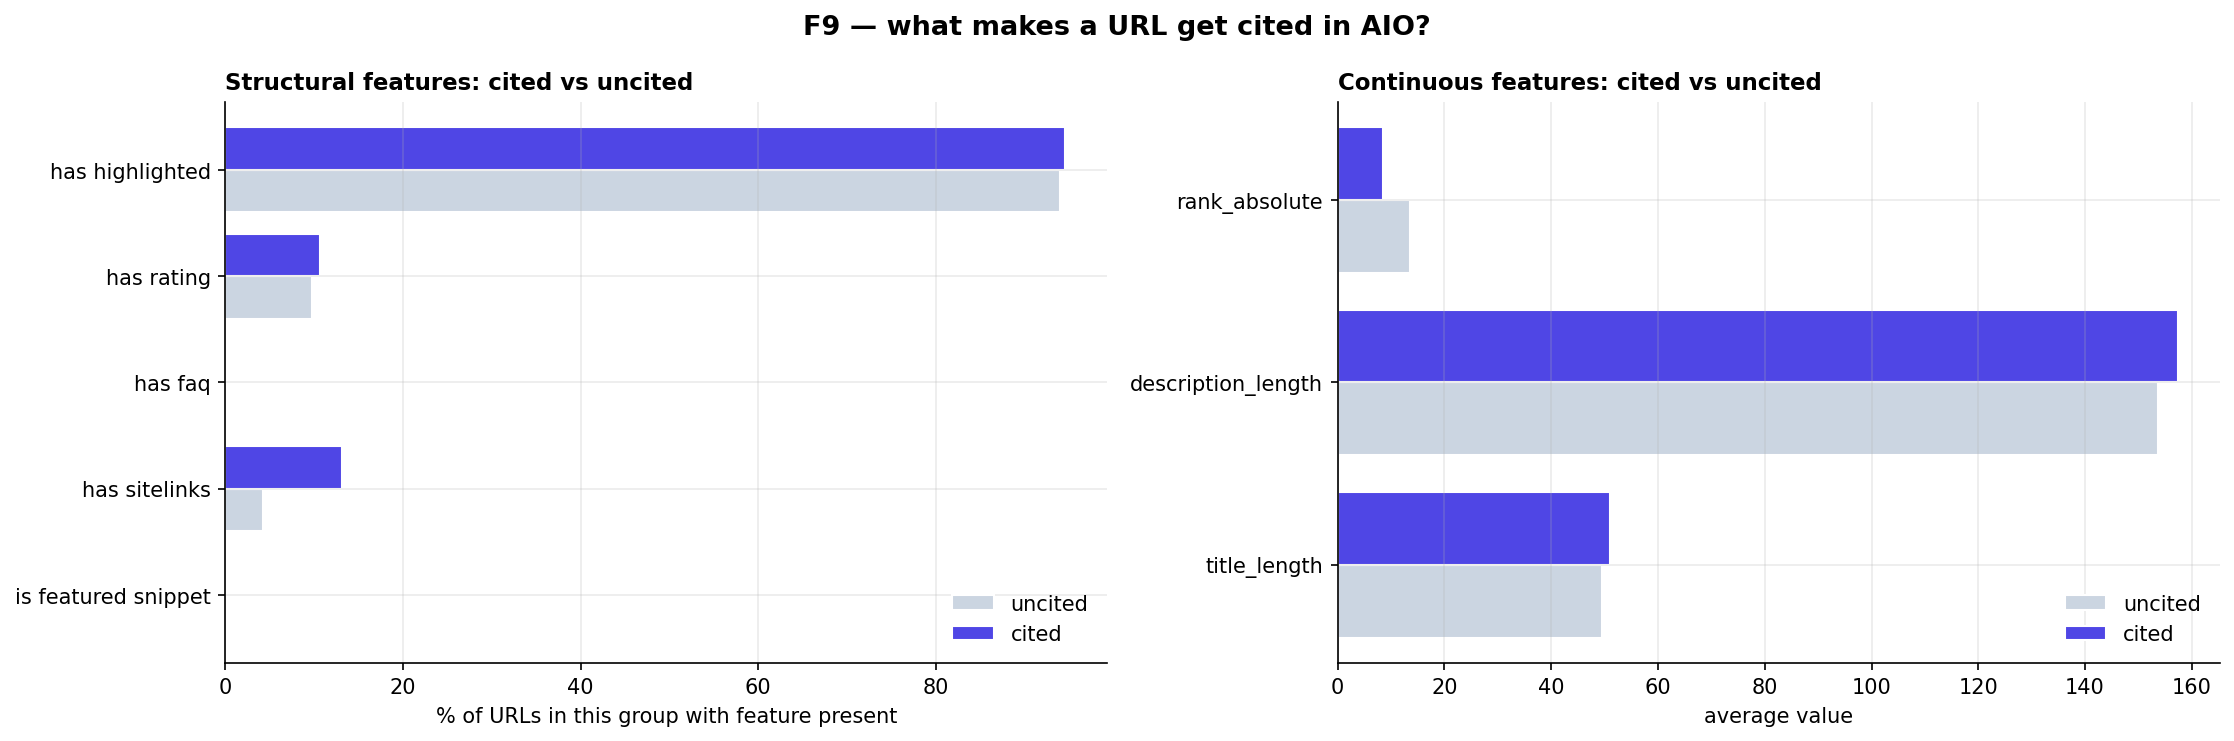
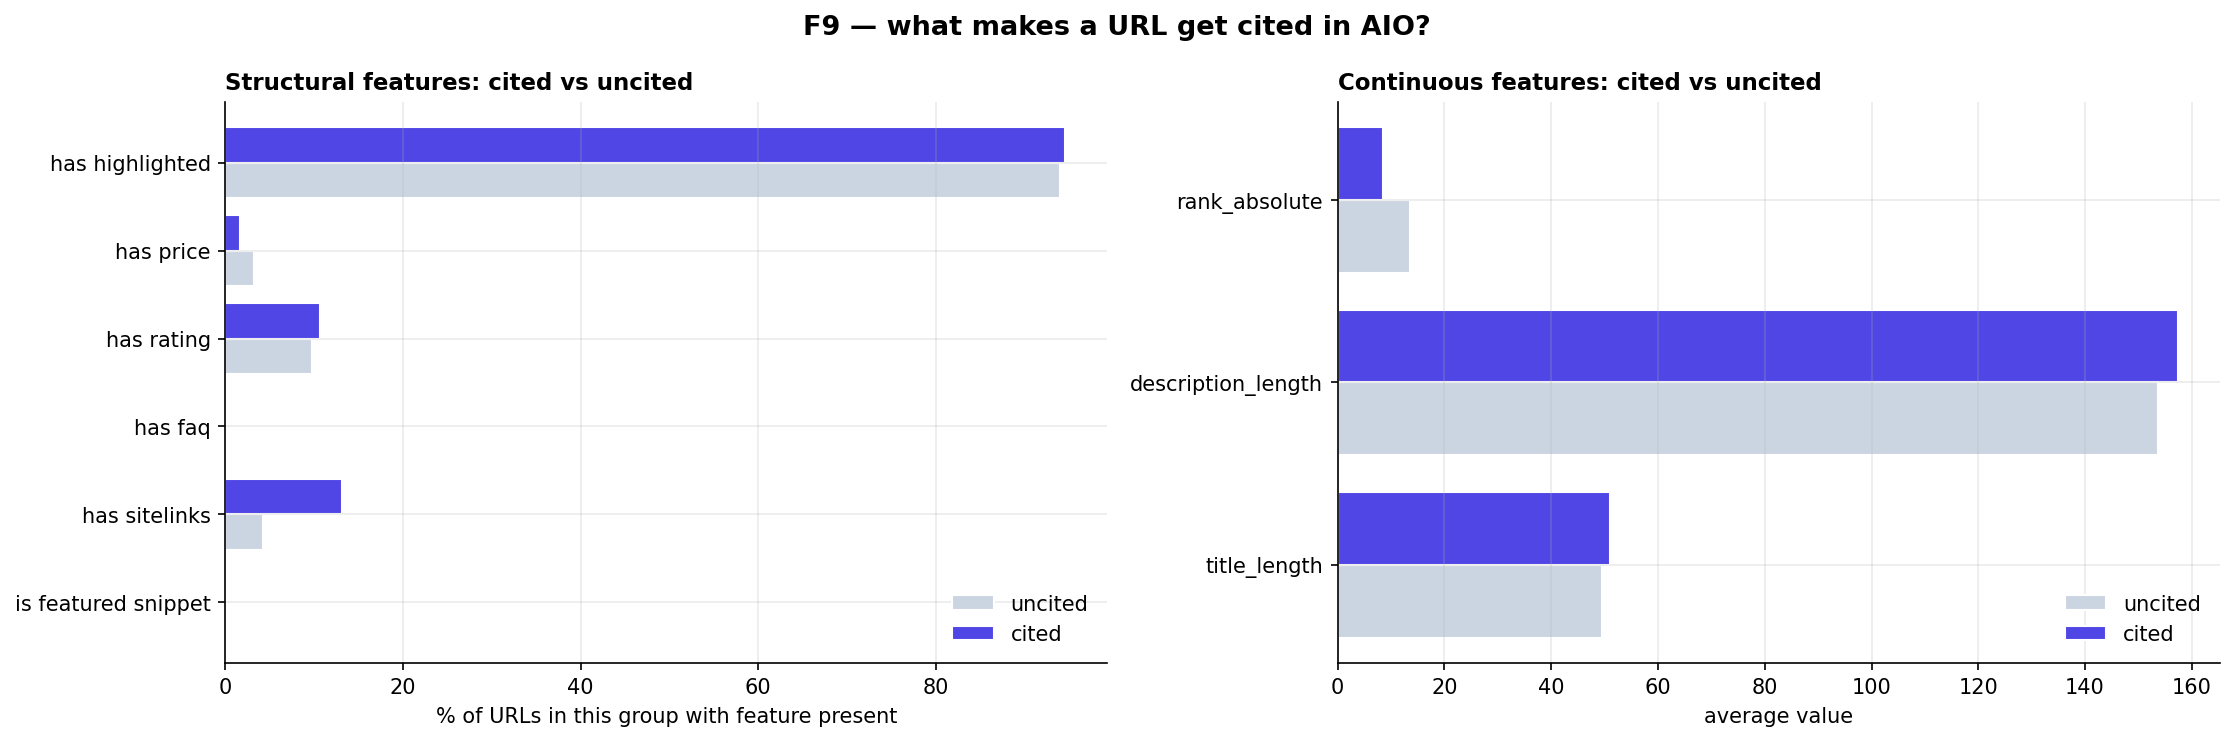
fix: has_price extraction bug + add deploy guard
Two operational fixes shipped together:

1. has_price extraction bug
   - scripts/fix_has_price.py: targeted in-place fix that pulls only
     (kr_id, url, has_price) from SEONGON for the 9,568 SERP IDs
     already in atlas.organic_features. ~180K rows pulled in 5
     minutes via lightweight 3-column query. UPDATEs atlas in bulk
     via temp table + UPDATE FROM.
   - Recomputes F9: has_price now shows -49% (cited=1.67%,
     uncited=3.27%) — the second-strongest negative signal in F9
     after rank. Pages with prices are cited LESS often, suggesting
     AIO devalues commercial-intent pages.
   - F11 SQL extended to include has_price across verticals.
   - FINDINGS.md F9 section updated with corrected table.

2. Deploy guard
   - dashboard/scripts/deploy.mjs: pre-deploy script that verifies
     railway link is on vn-aio-atlas/vn-aio-atlas-dashboard. Auto-
     relinks if wrong, refuses to deploy if relink fails. Defends
     against the cd-induced relink mishap from the v0.3 session.
   - dashboard/package.json: `npm run deploy` invokes the guard.

The has_price finding is genuinely meaningful: AIO penalizes
commercial-intent signals roughly 50%, which lines up with the AIO-
prefers-informational pattern across F2, F8, and the lifestyle/
healthcare rating-flip in F11.

diff --git a/scripts/fix_has_price.py b/scripts/fix_has_price.py
@@ -1,0 +1,168 @@
+"""Targeted fix for the has_price extraction bug.
+
+Strategy: instead of re-pulling the full organic_features set (which
+stalled twice), pull only (keyword_result_id, url, fixed_has_price)
+from SEONGON Supabase for the SERP IDs we already have in
+atlas.organic_features. Lighter query (3 cols) → less likely to stall.
+
+Then UPDATE atlas.organic_features.has_price using the corrected values.
+"""
+
+from __future__ import annotations
+
+import os
+import sys
+from pathlib import Path
+
+import polars as pl
+import psycopg
+from psycopg.rows import dict_row
+from rich.console import Console
+from tqdm import tqdm
+
+sys.path.insert(0, str(Path(__file__).resolve().parents[1] / "src"))
+
+from atlas.config import RAW_DIR, pg_conn_kwargs  # noqa: E402
+from atlas.db import atlas_conn  # noqa: E402
+
+console = Console()
+
+
+def get_kr_ids_from_atlas() -> list[int]:
+    """Get the distinct keyword_result_ids in atlas.organic_features."""
+    with atlas_conn() as conn, conn.cursor() as cur:
+        cur.execute(
+            "SELECT DISTINCT keyword_result_id FROM atlas.organic_features ORDER BY 1"
+        )
+        return [r[0] for r in cur.fetchall()]
+
+
+def pull_corrected_has_price(ids: list[int], chunk_size: int = 100) -> pl.DataFrame:
+    """Pull (kr_id, url, has_price_fixed) from SEONGON for given IDs."""
+    sql = """
+    SELECT
+        id AS keyword_result_id,
+        item->>'url' AS url,
+        (item ? 'price'
+            AND jsonb_typeof(item->'price') NOT IN ('null')
+            AND COALESCE(NULLIF(item->>'price', ''), NULL) IS NOT NULL) AS has_price
+      FROM keyword_results,
+           jsonb_array_elements(raw_api_result::jsonb -> 'items') AS item
+     WHERE has_ai_overview = 1
+       AND raw_api_result IS NOT NULL
+       AND raw_api_result NOT LIKE '%%\\u0000%%'
+       AND item->>'type' = 'organic'
+       AND id = ANY(%s)
+    """
+
+    chunks: list[pl.DataFrame] = []
+    pbar = tqdm(total=len(ids), desc="ids processed", unit="id")
+    for i in range(0, len(ids), chunk_size):
+        ids_chunk = ids[i : i + chunk_size]
+        try:
+            with psycopg.connect(**pg_conn_kwargs(), row_factory=dict_row) as conn:
+                with conn.cursor() as cur:
+                    cur.execute(sql, (ids_chunk,))
+                    rows = cur.fetchall()
+        except psycopg.errors.QueryCanceled:
+            console.log(f"  timeout at chunk {i}; halving")
+            chunk_size = max(20, chunk_size // 2)
+            continue
+        if rows:
+            chunks.append(pl.DataFrame(rows))
+        pbar.update(len(ids_chunk))
+    pbar.close()
+    if not chunks:
+        return pl.DataFrame()
+    return pl.concat(chunks, how="vertical_relaxed")
+
+
+def update_atlas_has_price(df: pl.DataFrame) -> int:
+    """UPDATE atlas.organic_features.has_price using fixed values."""
+    if df.is_empty():
+        return 0
+    out = RAW_DIR / "has_price_fix.parquet"
+    df.write_parquet(out)
+    console.log(f"  wrote corrected values to {out} ({len(df):,} rows)")
+
+    # Bulk update via temp table + UPDATE FROM
+    with atlas_conn() as conn, conn.cursor() as cur:
+        cur.execute(
+            """
+            CREATE TEMP TABLE _has_price_fix (
+                keyword_result_id integer NOT NULL,
+                url text NOT NULL,
+                has_price boolean NOT NULL
+            ) ON COMMIT DROP
+            """
+        )
+        # COPY into temp table
+        from io import StringIO
+
+        buf = StringIO()
+        df.with_columns(
+            pl.when(pl.col("has_price")).then(pl.lit("t")).otherwise(pl.lit("f")).alias("has_price")
+        ).select("keyword_result_id", "url", "has_price").write_csv(
+            buf, include_header=False, null_value=""
+        )
+        buf.seek(0)
+        with cur.copy(
+            "COPY _has_price_fix (keyword_result_id, url, has_price) FROM STDIN WITH (FORMAT CSV, NULL '')"
+        ) as cp:
+            cp.write(buf.read())
+
+        cur.execute("CREATE INDEX ON _has_price_fix (keyword_result_id, url)")
+
+        cur.execute(
+            """
+            UPDATE atlas.organic_features f
+               SET has_price = h.has_price
+              FROM _has_price_fix h
+             WHERE h.keyword_result_id = f.keyword_result_id
+               AND h.url = f.url
+            """
+        )
+        updated = cur.rowcount
+        console.log(f"  updated {updated:,} rows in atlas.organic_features")
+        return updated
+
+
+def main() -> None:
+    if not os.environ.get("SUPABASE_PG_PASSWORD"):
+        console.log(
+            "[red]SUPABASE_PG_PASSWORD not set in env; load via .env automatically[/]"
+        )
+    console.log("[bold]Step 1[/] — get keyword_result_ids from atlas.organic_features")
+    ids = get_kr_ids_from_atlas()
+    console.log(f"  {len(ids):,} distinct SERP ids in atlas.organic_features")
+
+    console.log("[bold]Step 2[/] — pull corrected has_price from SEONGON")
+    fixed = pull_corrected_has_price(ids)
+    console.log(f"  pulled {len(fixed):,} (kr_id, url, has_price) rows")
+
+    console.log("[bold]Step 3[/] — update atlas.organic_features in place")
+    updated = update_atlas_has_price(fixed)
+    console.log(f"[green]Done[/] — {updated:,} rows updated")
+
+    # Verify by recomputing the F9 has_price metric
+    console.log("\n[bold]Verification[/] — corrected has_price rates:")
+    with atlas_conn() as conn, conn.cursor() as cur:
+        cur.execute(
+            """
+            SELECT
+                100.0 * AVG(CASE WHEN has_price THEN 1 ELSE 0 END)::numeric(6,2) FILTER (WHERE url_cited)     AS pct_cited,
+                100.0 * AVG(CASE WHEN has_price THEN 1 ELSE 0 END)::numeric(6,2) FILTER (WHERE NOT url_cited) AS pct_uncited,
+                COUNT(*) FILTER (WHERE url_cited) AS n_cited,
+                COUNT(*) FILTER (WHERE NOT url_cited) AS n_uncited
+              FROM atlas.organic_features
+            """
+        )
+        r = cur.fetchone()
+        console.log(
+            f"  cited has_price: {r[0]}% (n={r[2]:,})\n"
+            f"  uncited has_price: {r[1]}% (n={r[3]:,})"
+        )
+
+
+if __name__ == "__main__":
+    main()

diff --git a/src/atlas/load.py b/src/atlas/load.py
@@ -611,11 +611,12 @@ def compute_findings(conn: Connection) -> None:
                     (SELECT 100.0 * AVG(CASE WHEN has_rating THEN 1 ELSE 0 END) FROM uncited),
                     (SELECT COUNT(*) FROM cited),
                     (SELECT COUNT(*) FROM uncited)
-                -- pct_has_price excluded: the source SQL in pull.py v1
-                -- counted JSON-null as "has price". Fixed in pull.py v2 but
-                -- the existing parquet was pulled with v1. Re-pull would
-                -- re-introduce the stalls we hit; sticking with v1 data
-                -- and dropping this metric for now.
+                UNION ALL
+                SELECT 'pct_has_price',
+                    (SELECT 100.0 * AVG(CASE WHEN has_price THEN 1 ELSE 0 END) FROM cited),
+                    (SELECT 100.0 * AVG(CASE WHEN has_price THEN 1 ELSE 0 END) FROM uncited),
+                    (SELECT COUNT(*) FROM cited),
+                    (SELECT COUNT(*) FROM uncited)
                 UNION ALL
                 SELECT 'pct_has_highlighted',
                     (SELECT 100.0 * AVG(CASE WHEN has_highlighted THEN 1 ELSE 0 END) FROM cited),
@@ -650,7 +651,8 @@ def compute_findings(conn: Connection) -> None:
                        f.rank_absolute,
                        f.has_sitelinks,
                        f.has_rating,
-                       f.has_highlighted
+                       f.has_highlighted,
+                       f.has_price
                   FROM atlas.organic_features f
                   JOIN atlas.keyword_results k ON k.id = f.keyword_result_id
                  WHERE k.vertical <> 'unknown'
@@ -689,6 +691,11 @@ def compute_findings(conn: Connection) -> None:
                                                                            AS cited_pct_highlighted,
                     100.0 * AVG(CASE WHEN b.has_highlighted THEN 1 ELSE 0 END) FILTER (WHERE NOT b.url_cited)
                                                                            AS uncited_pct_highlighted,
+                    -- pct_has_price (now valid after has_price fix)
+                    100.0 * AVG(CASE WHEN b.has_price THEN 1 ELSE 0 END) FILTER (WHERE b.url_cited)
+                                                                           AS cited_pct_price,
+                    100.0 * AVG(CASE WHEN b.has_price THEN 1 ELSE 0 END) FILTER (WHERE NOT b.url_cited)
+                                                                           AS uncited_pct_price,
                     COUNT(*) FILTER (WHERE b.url_cited)::int               AS n_cited,
                     COUNT(*) FILTER (WHERE NOT b.url_cited)::int           AS n_uncited
                   FROM base b
@@ -714,6 +721,9 @@ def compute_findings(conn: Connection) -> None:
                 UNION ALL
                 SELECT vertical, 'pct_has_highlighted',
                        cited_pct_highlighted, uncited_pct_highlighted, n_cited, n_uncited FROM stats
+                UNION ALL
+                SELECT vertical, 'pct_has_price',
+                       cited_pct_price, uncited_pct_price, n_cited, n_uncited FROM stats
             )
             INSERT INTO atlas.f11_features_by_vertical
                   (vertical, feature, cited_value, uncited_value, relative_diff_pct, n_cited, n_uncited)

diff --git a/FINDINGS.md b/FINDINGS.md
@@ -268,9 +268,24 @@ appear to be:
    data. Build pages and a site structure that earns Google sitelinks, and
    your AIO citation rate roughly triples.
 
-**Caveat:** `has_price` was excluded from this iteration due to a
-known SQL extraction bug in the source pull (counts JSON-null prices as
-"has price"). The fix is in `pull.py` for future re-pulls.
+**Updated finding (v0.4):** with the `has_price` extraction bug fixed
+in-place via a targeted reload, F9 now includes a second strong negative
+signal: **pages with structured price data are cited 49% less often
+than pages without** (1.67% vs 3.27%). This makes intuitive sense — AIO
+prefers informational sources over commercial product pages, and
+structured prices are a commercial-intent signal.
+
+Updated F9 ranking by absolute relative effect:
+
+| feature | cited | uncited | Δ relative |
+|---|---:|---:|---:|
+| pct_has_sitelinks | 13.2% | 4.2% | **+213%** |
+| pct_has_price | 1.7% | 3.3% | **−49%** |
+| avg_rank_absolute | 8.6 | 13.5 | **−37%** |
+| pct_has_rating | 10.7% | 9.7% | +10% |
+| avg_title_length | 51.0 | 49.5 | +3% |
+| avg_description_length | 157.3 | 153.7 | +2% |
+| pct_has_highlighted | 94.6% | 94.0% | +1% |
 
 ![F9 — Cited vs uncited URL features](charts/f9_cited_vs_uncited_features.png)
 
